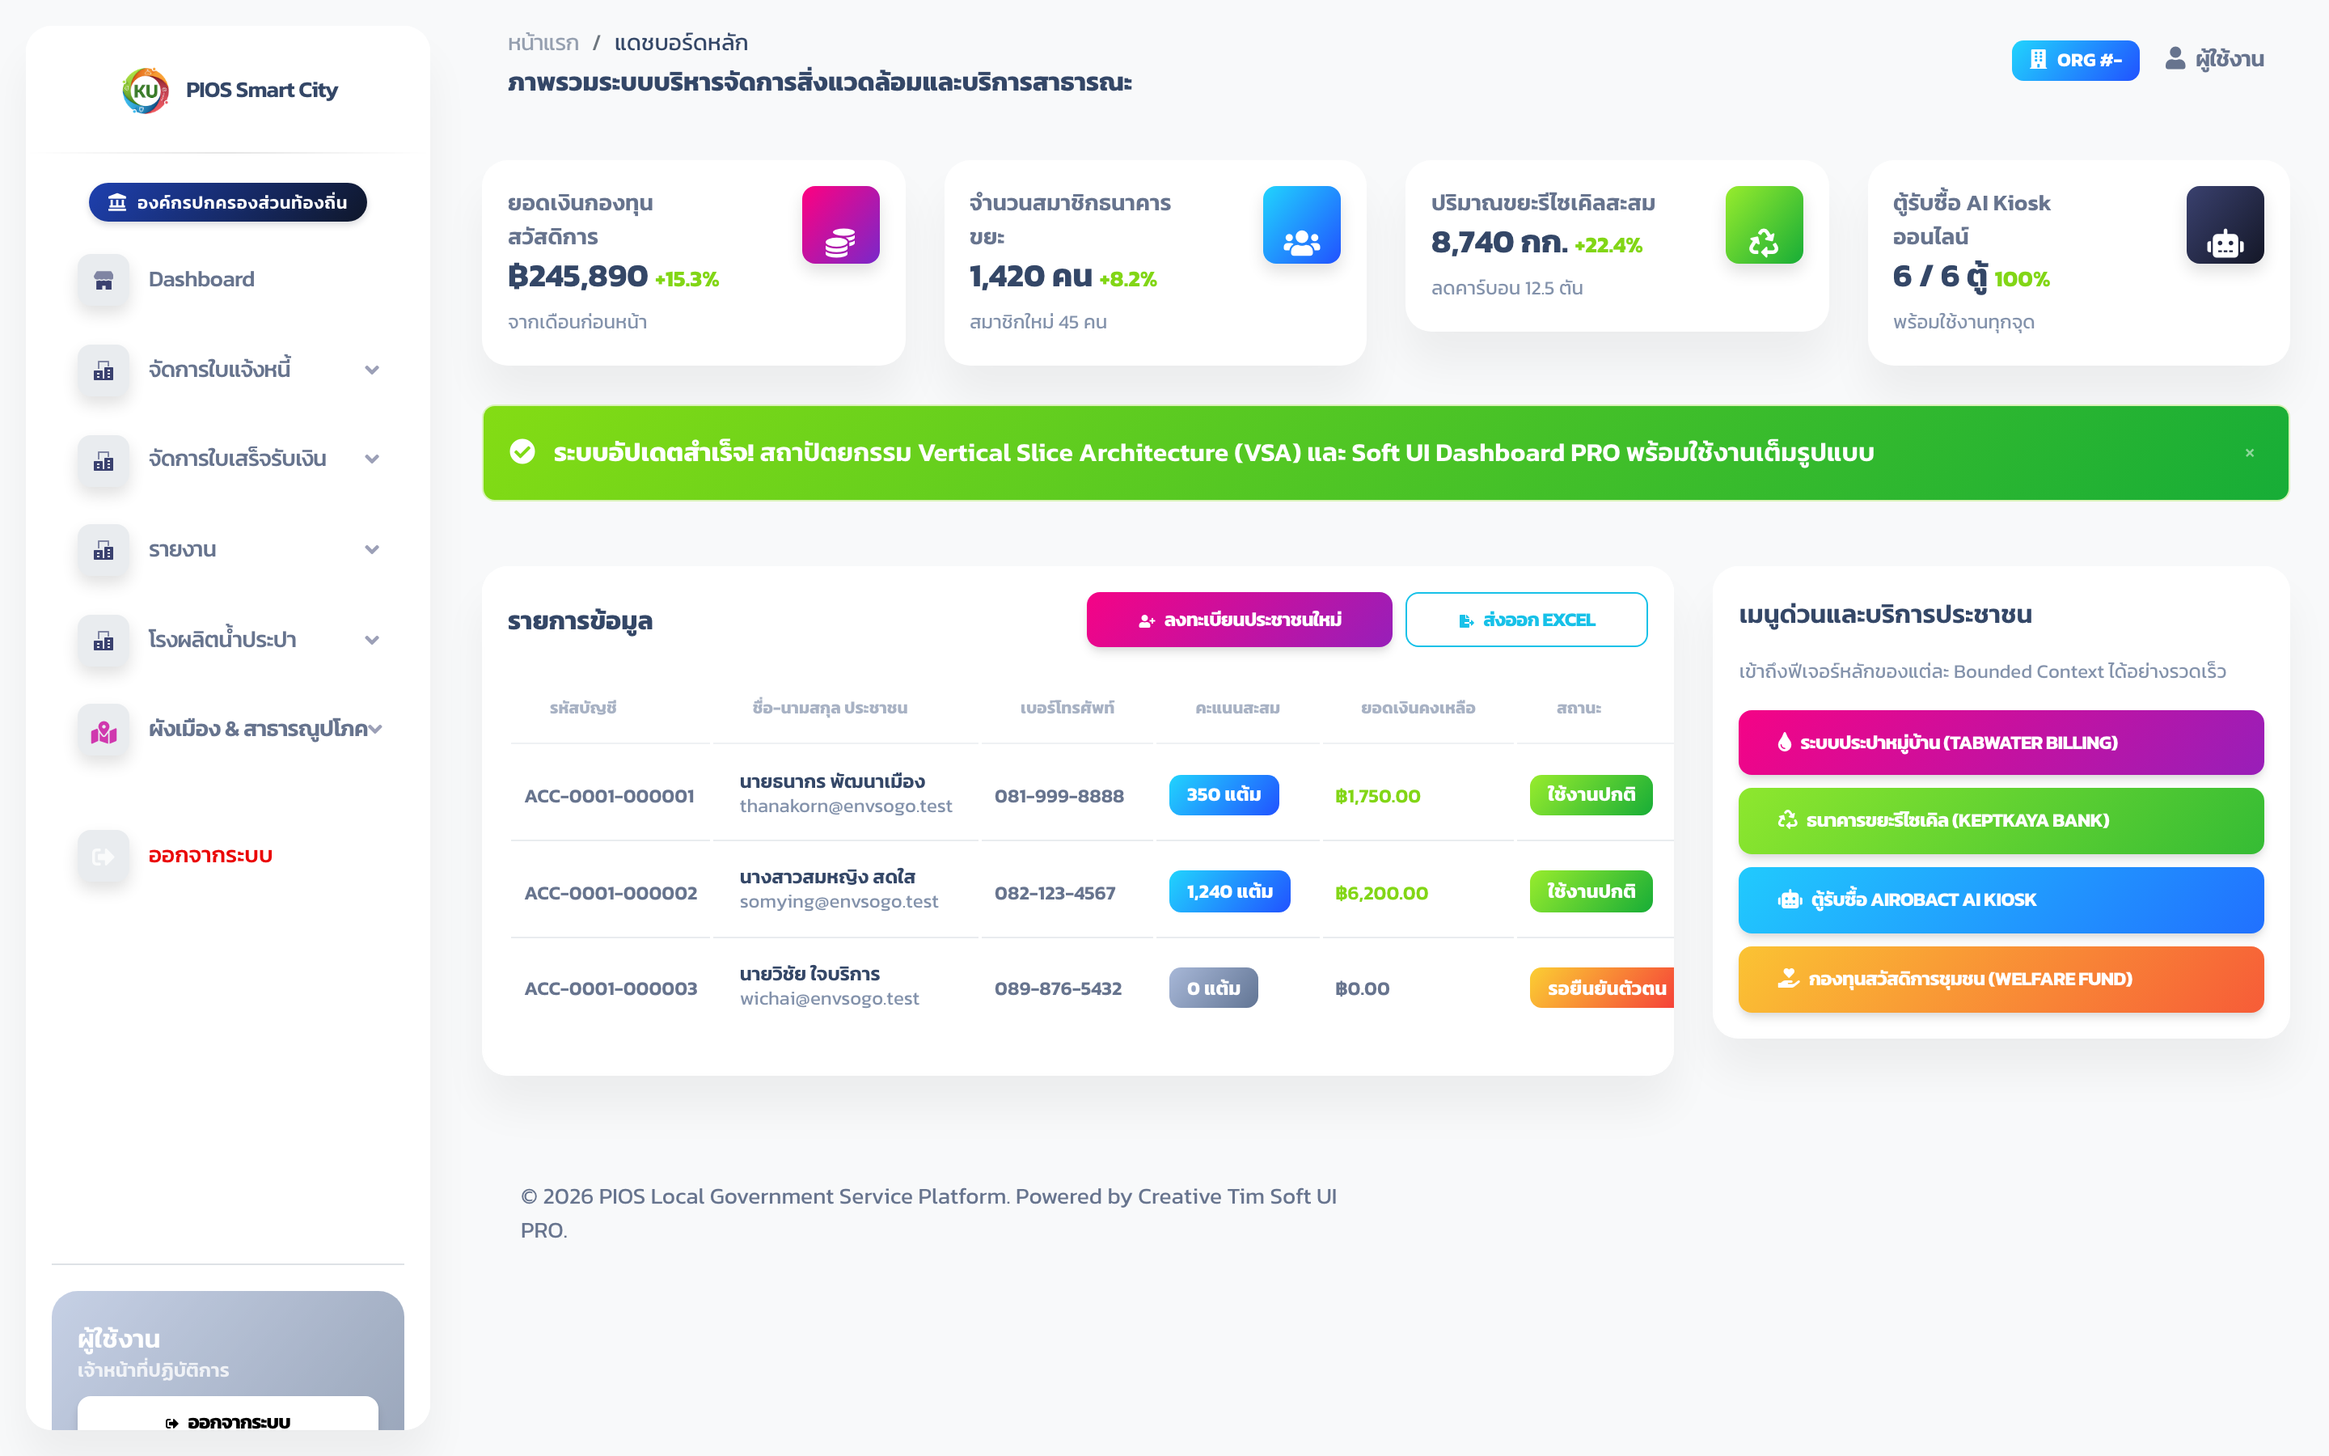
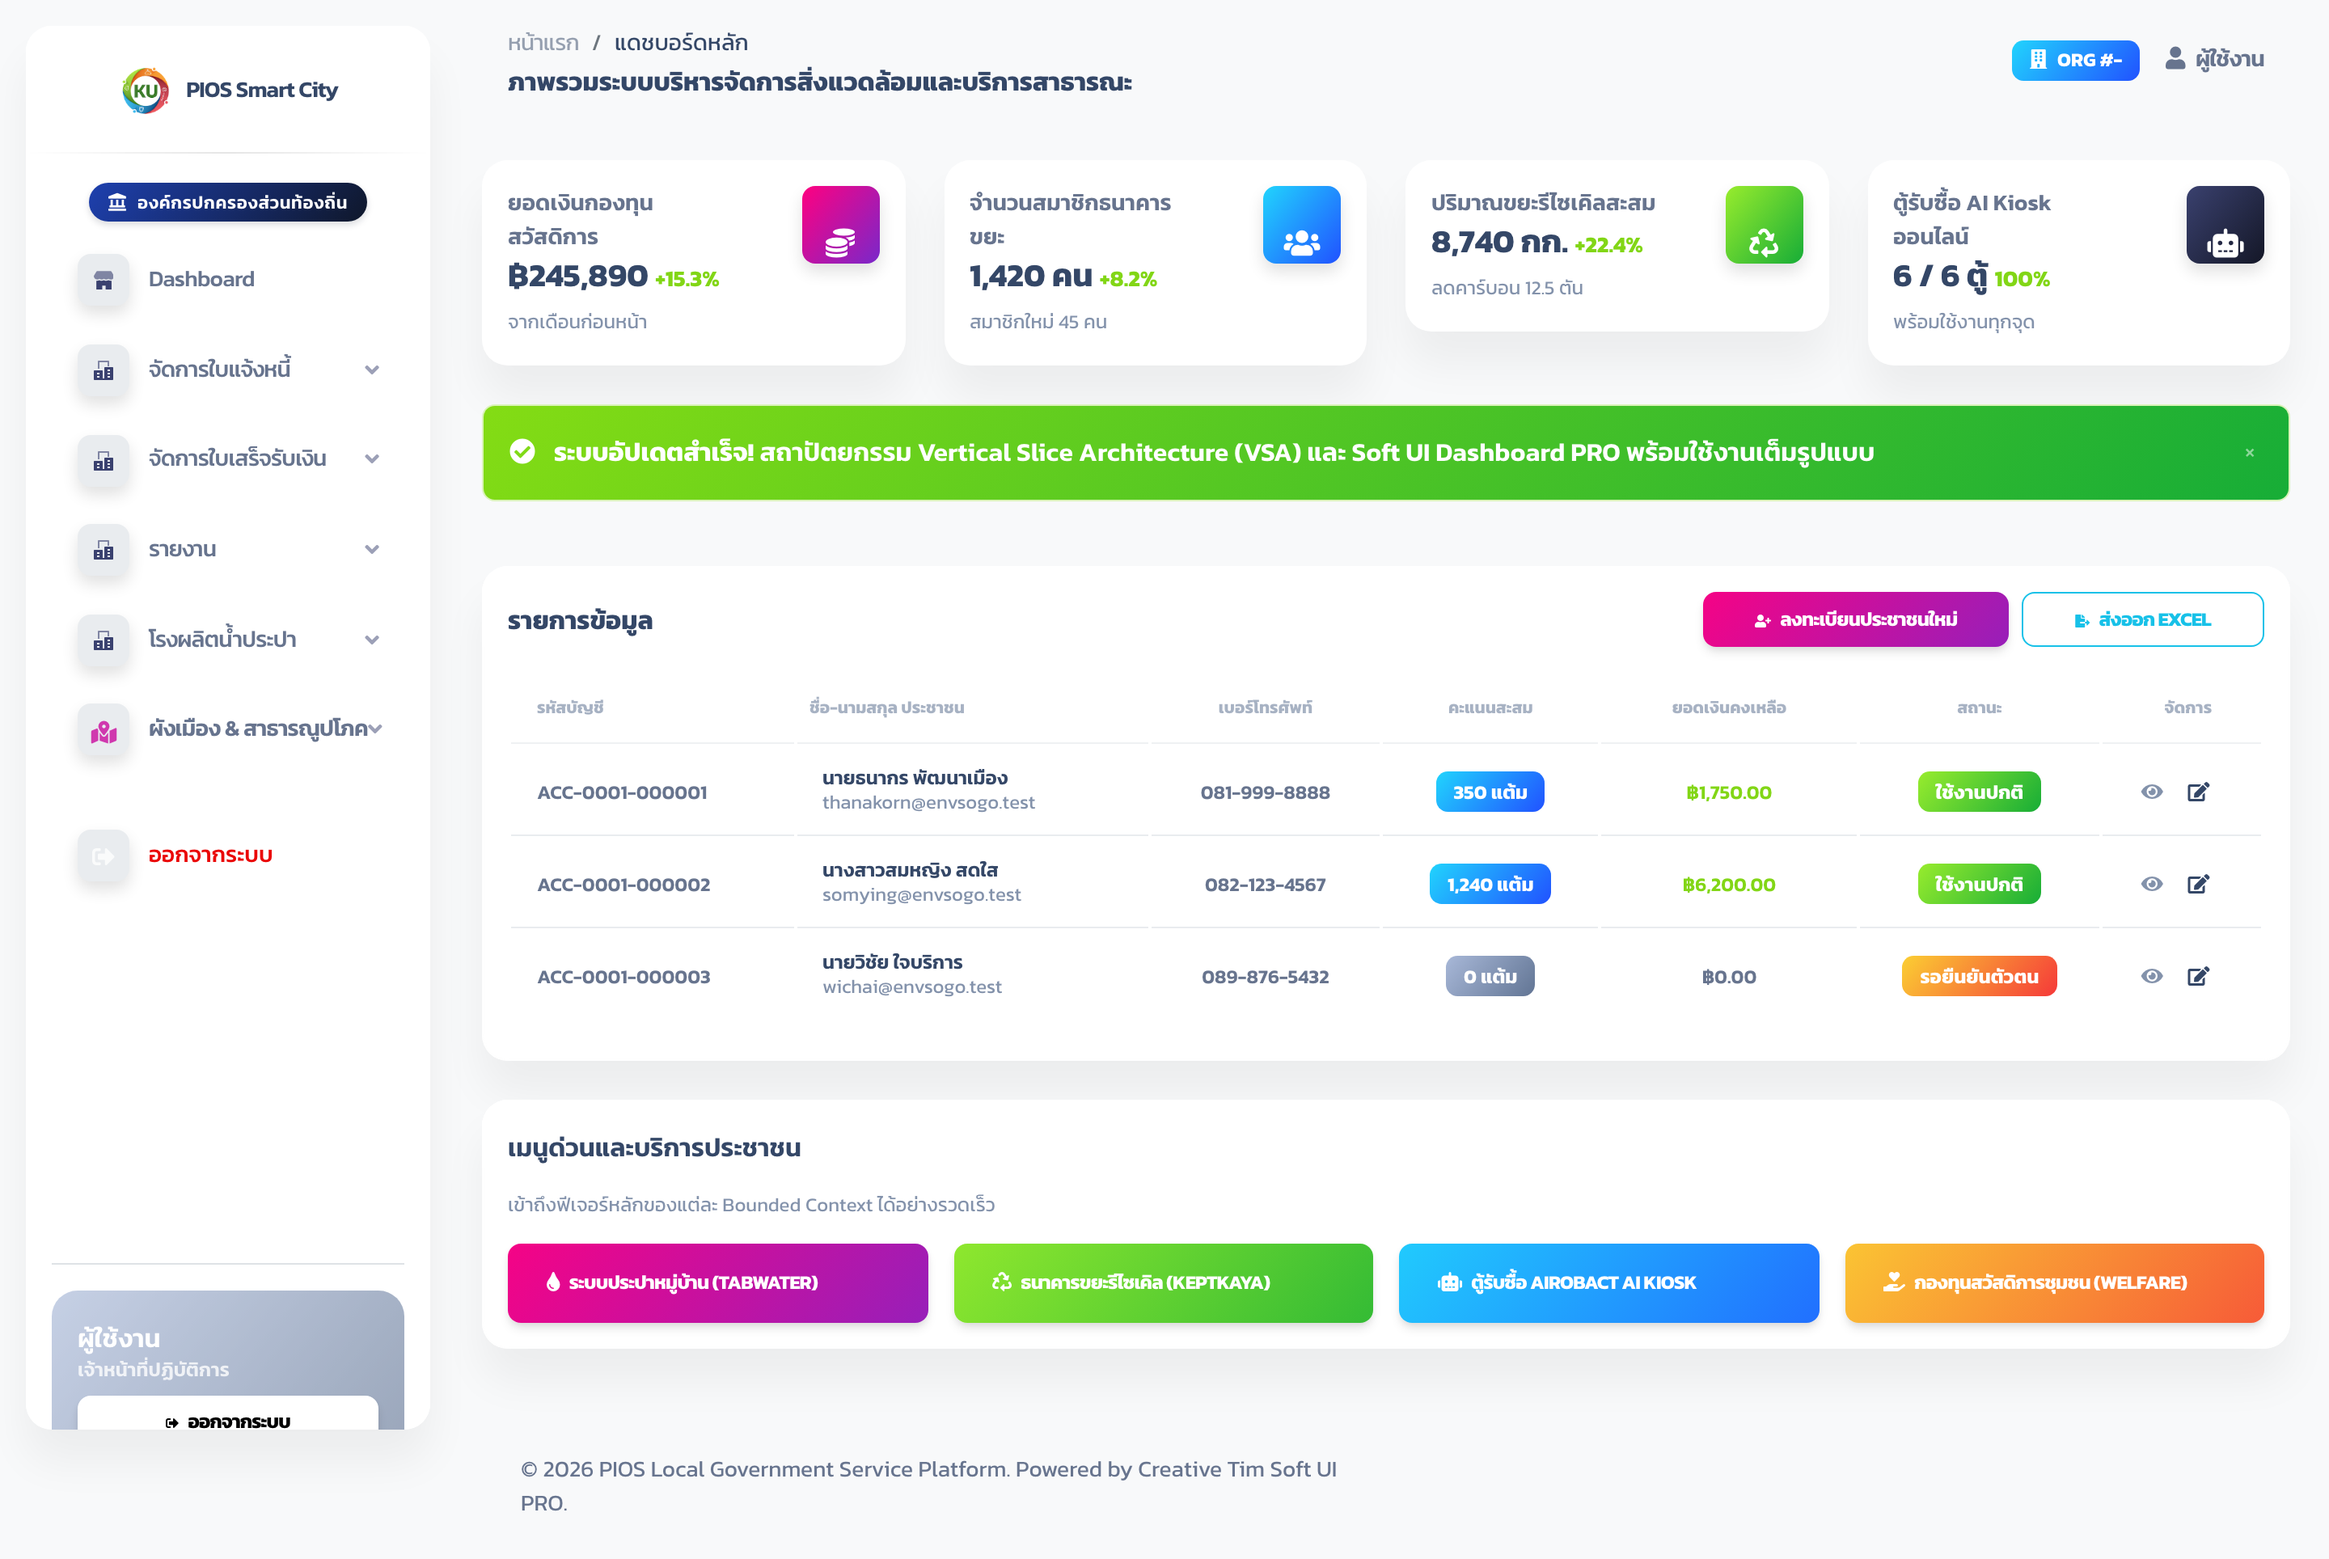
fix(ui): expand datatable to full width and align columns to prevent badge overflow

diff --git a/resources/views/preview/soft-ui-pro.blade.php b/resources/views/preview/soft-ui-pro.blade.php
@@ -64,9 +64,17 @@
 
 <!-- Main Table and Info Cards -->
 <div class="row mt-4">
-    <div class="col-lg-8 col-md-12 mb-4">
+    <div class="col-12 mb-4">
         @php
-            $headers = ['รหัสบัญชี', 'ชื่อ-นามสกุล ประชาชน', 'เบอร์โทรศัพท์', 'คะแนนสะสม', 'ยอดเงินคงเหลือ', 'สถานะ', 'จัดการ'];
+            $headers = [
+                ['text' => 'รหัสบัญชี', 'class' => 'ps-3'],
+                ['text' => 'ชื่อ-นามสกุล ประชาชน', 'class' => 'ps-2'],
+                ['text' => 'เบอร์โทรศัพท์', 'class' => 'text-center'],
+                ['text' => 'คะแนนสะสม', 'class' => 'text-center'],
+                ['text' => 'ยอดเงินคงเหลือ', 'class' => 'text-center'],
+                ['text' => 'สถานะ', 'class' => 'text-center'],
+                ['text' => 'จัดการ', 'class' => 'text-center pe-3'],
+            ];
             $citizens = [
                 [
                     'code' => 'ACC-0001-000001',
@@ -118,7 +126,7 @@
 
             @foreach ($citizens as $citizen)
                 <tr>
-                    <td><span class="text-xs font-weight-bold">{{ $citizen['code'] }}</span></td>
+                    <td class="ps-3"><span class="text-xs font-weight-bold">{{ $citizen['code'] }}</span></td>
                     <td>
                         <div class="d-flex px-2 py-1">
                             <div class="d-flex flex-column justify-content-center">
@@ -127,13 +135,13 @@
                             </div>
                         </div>
                     </td>
-                    <td><span class="text-xs font-weight-bold">{{ $citizen['phone'] }}</span></td>
-                    <td><span class="badge badge-sm {{ $citizen['points_badge'] }}">{{ $citizen['points'] }}</span></td>
-                    <td><span class="text-xs font-weight-bold {{ $citizen['balance_color'] }}">{{ $citizen['balance'] }}</span></td>
-                    <td><x-soft-ui.badge :color="$citizen['status_color']">{{ $citizen['status'] }}</x-soft-ui.badge></td>
-                    <td>
-                        <button class="btn btn-link text-secondary mb-0" aria-label="ดูรายละเอียด"><i class="fas fa-eye text-xs"></i></button>
-                        <button class="btn btn-link text-dark mb-0" aria-label="แก้ไขข้อมูล"><i class="fas fa-edit text-xs"></i></button>
+                    <td class="text-center"><span class="text-xs font-weight-bold">{{ $citizen['phone'] }}</span></td>
+                    <td class="text-center"><span class="badge badge-sm {{ $citizen['points_badge'] }}">{{ $citizen['points'] }}</span></td>
+                    <td class="text-center"><span class="text-xs font-weight-bold {{ $citizen['balance_color'] }}">{{ $citizen['balance'] }}</span></td>
+                    <td class="text-center"><x-soft-ui.badge :color="$citizen['status_color']">{{ $citizen['status'] }}</x-soft-ui.badge></td>
+                    <td class="text-center pe-3">
+                        <button class="btn btn-link text-secondary mb-0 p-1" aria-label="ดูรายละเอียด"><i class="fas fa-eye text-xs"></i></button>
+                        <button class="btn btn-link text-dark mb-0 p-1 ms-1" aria-label="แก้ไขข้อมูล"><i class="fas fa-edit text-xs"></i></button>
                     </td>
                 </tr>
             @endforeach
@@ -189,22 +197,30 @@
     </div>
 
     <!-- Quick Actions Card -->
-    <div class="col-lg-4 col-md-12">
+    <div class="col-12 mb-4">
         <x-soft-ui.card title="เมนูด่วนและบริการประชาชน">
             <p class="text-xs text-secondary mb-3">เข้าถึงฟีเจอร์หลักของแต่ละ Bounded Context ได้อย่างรวดเร็ว</p>
-            <div class="d-grid gap-2">
-                <x-soft-ui.button color="primary" class="w-100 text-start" icon="fas fa-tint">
-                    ระบบประปาหมู่บ้าน (Tabwater Billing)
-                </x-soft-ui.button>
-                <x-soft-ui.button color="success" class="w-100 text-start" icon="fas fa-recycle">
-                    ธนาคารขยะรีไซเคิล (KeptKaya Bank)
-                </x-soft-ui.button>
-                <x-soft-ui.button color="info" class="w-100 text-start" icon="fas fa-robot">
-                    ตู้รับซื้อ AIroBacT AI Kiosk
-                </x-soft-ui.button>
-                <x-soft-ui.button color="warning" class="w-100 text-start" icon="fas fa-hand-holding-heart">
-                    กองทุนสวัสดิการชุมชน (Welfare Fund)
-                </x-soft-ui.button>
+            <div class="row g-3">
+                <div class="col-xl-3 col-md-6 col-12">
+                    <x-soft-ui.button color="primary" class="w-100 text-start py-3" icon="fas fa-tint">
+                        ระบบประปาหมู่บ้าน (Tabwater)
+                    </x-soft-ui.button>
+                </div>
+                <div class="col-xl-3 col-md-6 col-12">
+                    <x-soft-ui.button color="success" class="w-100 text-start py-3" icon="fas fa-recycle">
+                        ธนาคารขยะรีไซเคิล (KeptKaya)
+                    </x-soft-ui.button>
+                </div>
+                <div class="col-xl-3 col-md-6 col-12">
+                    <x-soft-ui.button color="info" class="w-100 text-start py-3" icon="fas fa-robot">
+                        ตู้รับซื้อ AIroBacT AI Kiosk
+                    </x-soft-ui.button>
+                </div>
+                <div class="col-xl-3 col-md-6 col-12">
+                    <x-soft-ui.button color="warning" class="w-100 text-start py-3" icon="fas fa-hand-holding-heart">
+                        กองทุนสวัสดิการชุมชน (Welfare)
+                    </x-soft-ui.button>
+                </div>
             </div>
         </x-soft-ui.card>
     </div>

diff --git a/resources/views/components/soft-ui/datatable.blade.php b/resources/views/components/soft-ui/datatable.blade.php
@@ -25,7 +25,11 @@
                     <thead>
                         <tr>
                             @foreach ($headers as $header)
-                                <th class="text-uppercase text-secondary text-xxs font-weight-bolder opacity-7">{{ $header }}</th>
+                                @php
+                                    $hText = is_array($header) ? ($header['text'] ?? '') : $header;
+                                    $hClass = is_array($header) ? ($header['class'] ?? '') : '';
+                                @endphp
+                                <th class="text-uppercase text-secondary text-xxs font-weight-bolder opacity-7 {{ $hClass }}">{{ $hText }}</th>
                             @endforeach
                         </tr>
                     </thead>
